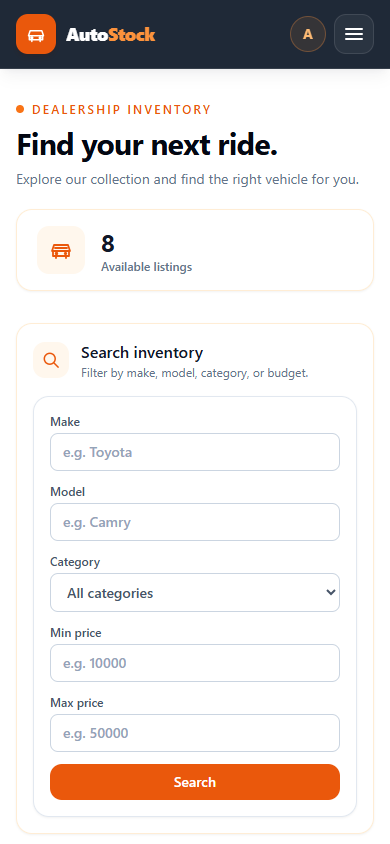
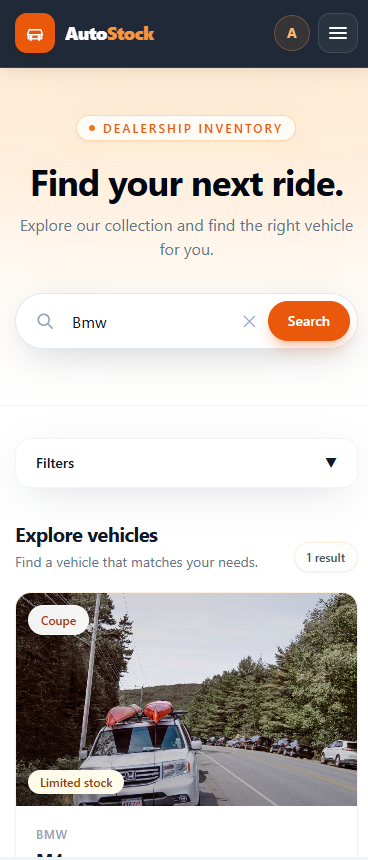
Prompts.md updated with new chatGPT link for ai use and also updated the docs/screenshots added latest screenshots after ui update

diff --git a/PROMPTS.md b/PROMPTS.md
@@ -9,11 +9,15 @@ How I used each tool is described in the [My AI Usage](README.md#my-ai-usage) se
 
 Used for the backend, the TDD test suites, the frontend setup, and debugging.
 
-https://claude.ai/chat/1a0a27a2-3e02-4048-ac7b-43384c090e6a
+
+https://claude.ai/share/1112f2e0-7084-4dd9-97a7-d97aa338ca31
 
 ## ChatGPT (OpenAI)
 
 Used for the AutoStock UI redesign.
+
+https://chatgpt.com/share/6adde01e-e574-83ec-94da-bf535afb6500
+
 
 prompt: this is my current ui, i need a modern ui for this project
 Ai response:
